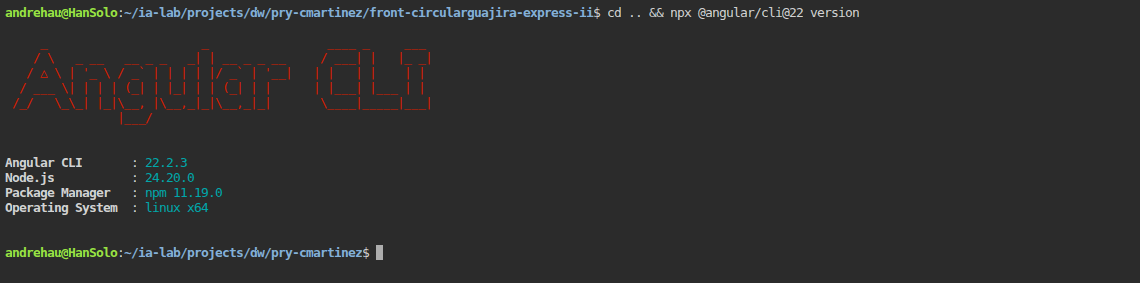
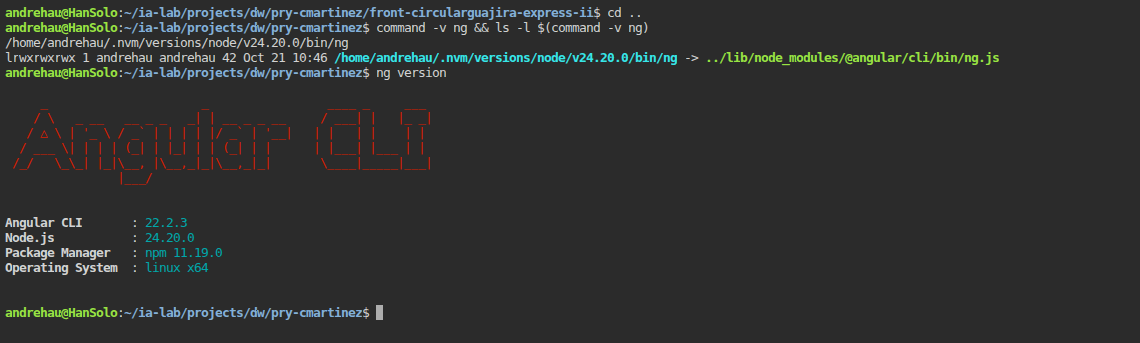
FRONT-ISS-00: Criterios consolidados de requisitos previos

diff --git a/dw/pry-cmartinez/front-circularguajira-express-ii/docs/PROCESO.md b/dw/pry-cmartinez/front-circularguajira-express-ii/docs/PROCESO.md
@@ -20,20 +20,27 @@ Dejar el equipo listo para construir el frontend: Node, npm, Angular CLI, navega
 
 El backend ya está en su estado final (Fase II): las rutas de negocio exigen JWT + RBAC. Login, refresh y logout son OPEN; `GET /api/session/profile` y `GET /api/session/permissions` son JWT. El login devuelve solo el par de tokens; el perfil y los permisos se piden aparte. Usuarios del seeder: `admin`, `logistica`, `bascula`, `planta` y `finanzas` (contraseña `<Rol>2026!`), con 87, 30, 21, 13 y 18 permisos.
 
+WSL ejecuta Node, Angular CLI, el backend y MySQL (Docker); el navegador de Windows abre `http://localhost:<puerto>` porque WSL2 reenvía localhost.
+
 Criterios de aceptación (ISS-00)
 
-- [x] `node -v` ≥ 22 y `npm -v` ≥ 10
-- [x] `npx @angular/cli@22 version` muestra Angular CLI 22.x
-- [x] `npm run db:seed && npm run dev` del backend deja el puerto 4000 escuchando
-- [x] `POST /api/session/login` con `admin` devuelve `accessToken` y `refreshToken`
+- [x] `node -v` cumple los `engines` de `@angular/cli` y `npm -v` responde
+- [x] `ng version` identifica Angular CLI 22.x y `command -v ng` apunta a la instalación npm
+- [x] `npm run db:seed` termina sin error y `npm run dev` deja el puerto 4000 escuchando
+- [x] `POST /api/session/login` con `admin` / `Admin2026!` devuelve `accessToken` y `refreshToken`
 - [x] `GET /api/session/permissions` con ese token devuelve `permissions` (87 para admin)
-- [x] La carpeta `front-circularguajira-express-ii` existe y está vacía (solo `docs/`)
+- [x] `logistica`, `bascula`, `planta` y `finanzas` inician sesión y reciben 30, 21, 13 y 18 permisos
+- [x] DevTools con Console y Network disponibles para revisar cada petición
+- [x] La carpeta del frontend existe y está vacía de código: sin `src/` ni `package.json`; solo `docs/`
+- [x] `curl -i http://localhost:4000/api/recyclers` responde 401 (backend final)
 
 ### Pasos
 
 ```bash
-node -v && npm -v
-npx @angular/cli@22 version
+node --version && npm --version
+npm view @angular/cli version engines --json
+npm install -g @angular/cli
+command -v ng && ng version
 cd ~/ia-lab/projects/dw/pry-cmartinez/app-circularguajira-express-ii
 npm run db:migrate && npm run db:seed && npm run dev
 mkdir -p ~/ia-lab/projects/dw/pry-cmartinez/front-circularguajira-express-ii
@@ -42,8 +49,13 @@ mkdir -p ~/ia-lab/projects/dw/pry-cmartinez/front-circularguajira-express-ii
 ### Verificación del ISS
 
 ```bash
+# 1. Versiones
+node -v && npm -v && ng version
+
+# 2. Backend vivo (401 = protegido)
 curl -s -o /dev/null -w "HTTP %{http_code}\n" http://localhost:4000/api/recyclers
 
+# 3. Login + permisos de admin
 TOKEN=$(curl -s -X POST http://localhost:4000/api/session/login \
   -H "Content-Type: application/json" \
   -d '{"identifier":"admin","password":"Admin2026!"}' \
@@ -51,21 +63,31 @@ TOKEN=$(curl -s -X POST http://localhost:4000/api/session/login \
 
 curl -s http://localhost:4000/api/session/permissions \
   -H "Authorization: Bearer $TOKEN" | head -c 300
+
+# 4. Permisos de los demás roles
+for u in logistica bascula planta finanzas; do
+  B='{"identifier":"'$u'","password":"'${u^}'2026!"}'
+  T=$(curl -s -X POST http://localhost:4000/api/session/login \
+    -H "Content-Type: application/json" -d "$B" \
+    | grep -o '"accessToken":"[^"]*' | cut -d'"' -f4)
+  curl -s http://localhost:4000/api/session/permissions \
+    -H "Authorization: Bearer $T" | grep -o '"resourceId"' | wc -l
+done
 ```
 
-**Verificación:** versiones correctas, backend protegido en el puerto 4000 (401 sin token) y login con permisos efectivos del admin.
+**Verificación:** versiones correctas, backend protegido en el puerto 4000 (401 sin token), login y permisos efectivos de los cinco roles.
 
 #### Evidencias
 
-**Ev1 — Node y npm:** `node -v && npm -v` devuelve v24.20.0 y 11.19.0.
+**Ev1 — Node y npm:** `node -v && npm -v` devuelve v24.20.0 y 11.19.0; `npm view @angular/cli` pide `node ^22.22.3 || ^24.15.0 || >=26.0.0` y `npm >=8.0.0`.
 
 ![Ev1 ISS-00](images/Ev1-ISS-00.png)
 
-**Ev2 — Angular CLI:** `npx @angular/cli@22 version`, fuera de un proyecto Angular, reporta Angular CLI 22.2.3 sobre Node 24.20.0.
+**Ev2 — Angular CLI:** `command -v ng` apunta a `~/.nvm/.../bin/ng`, enlace a `@angular/cli/bin/ng.js`; `ng version` reporta Angular CLI 22.2.3.
 
 ![Ev2 ISS-00](images/Ev2-ISS-00.png)
 
-**Ev3 — Backend:** `npm run db:migrate && npm run db:seed` concilia 5 roles y 87 recursos, `npm run dev` levanta en el puerto 4000; `/health` responde 200, `/api/recyclers` responde 401 sin token y el puerto 4000 está en LISTEN.
+**Ev3 — Backend:** `npm run db:migrate && npm run db:seed` concilia 5 roles y 87 recursos; `npm run dev` levanta en el puerto 4000, `/health` responde 200 y el puerto está en LISTEN.
 
 ![Ev3 ISS-00](images/Ev3-ISS-00.png)
 
@@ -73,13 +95,25 @@ curl -s http://localhost:4000/api/session/permissions \
 
 ![Ev4 ISS-00](images/Ev4-ISS-00.png)
 
-**Ev5 — Permisos:** con el token del admin, `GET /api/session/permissions` devuelve filas `{ resourceId, method, path }`, 87 en total.
+**Ev5 — Permisos admin:** con ese token, `GET /api/session/permissions` devuelve filas `{ resourceId, method, path }`, 87 en total.
 
 ![Ev5 ISS-00](images/Ev5-ISS-00.png)
 
-**Ev6 — Carpeta del frontend:** en el commit `820bc53` de este ISS, `git ls-tree` muestra que `front-circularguajira-express-ii` solo contiene `docs/`.
+**Ev6 — Demás roles:** el ciclo de login + permisos da logistica 30, bascula 21, planta 13 y finanzas 18.
 
 ![Ev6 ISS-00](images/Ev6-ISS-00.png)
+
+**Ev7 — DevTools:** Network muestra `login` y `permissions` con 200 y Console imprime `GET /api/session/permissions -> 200, 87 permisos`.
+
+![Ev7 ISS-00](images/Ev7-ISS-00.png)
+
+**Ev8 — Carpeta del frontend:** en el commit `820bc53` de este ISS, `git ls-tree` muestra solo `docs` y ningún `src/` ni `package.json`.
+
+![Ev8 ISS-00](images/Ev8-ISS-00.png)
+
+**Ev9 — Backend protegido:** `curl -i http://localhost:4000/api/recyclers` responde `401 Unauthorized` con "Falta el token de acceso".
+
+![Ev9 ISS-00](images/Ev9-ISS-00.png)
 
 ### Commit
 
@@ -91,3 +125,15 @@ git push origin main
 ```
 
 Commit: [`820bc53`](https://github.com/DW-2026-IISem/dw-2026-Andreushin/commit/820bc535796b844270434257844df1f83bbb63ad)
+
+Capturas reales de evidencias: [`2b8fc5b`](https://github.com/DW-2026-IISem/dw-2026-Andreushin/commit/2b8fc5b964c31496944f6bbd8cd001e5b4afebe3)
+
+Criterios consolidados de la guía:
+
+```bash
+git add docs/PROCESO.md docs/images/Ev1-ISS-00.png docs/images/Ev2-ISS-00.png docs/images/Ev3-ISS-00.png \
+  docs/images/Ev4-ISS-00.png docs/images/Ev5-ISS-00.png docs/images/Ev6-ISS-00.png docs/images/Ev7-ISS-00.png \
+  docs/images/Ev8-ISS-00.png docs/images/Ev9-ISS-00.png
+git commit -m "FRONT-ISS-00: Criterios consolidados de requisitos previos"
+git push origin main
+```
